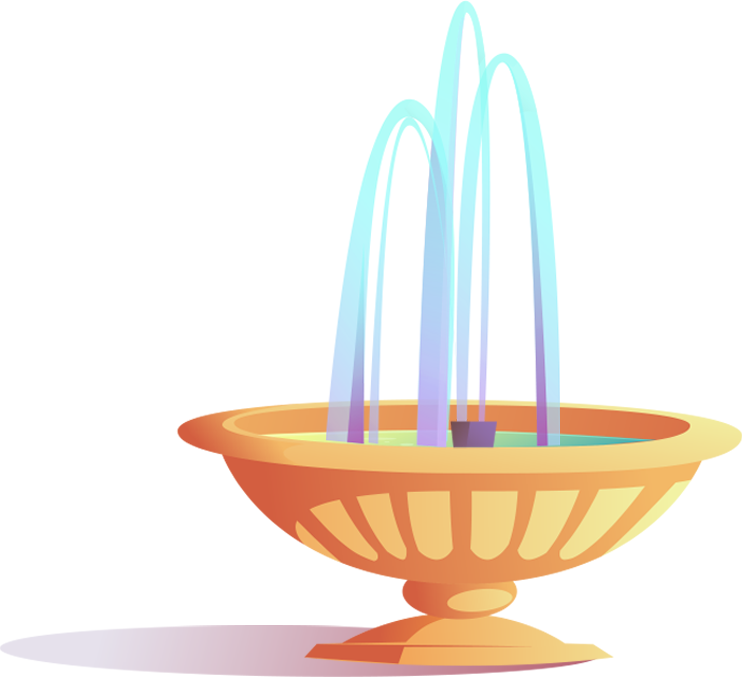
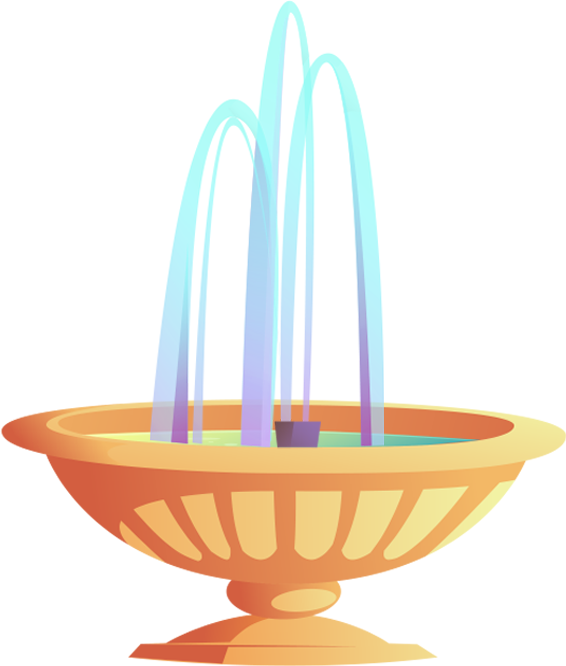
fix howz

diff --git a/src/containers/Rooms/Mashahir.js b/src/containers/Rooms/Mashahir.js
@@ -72,7 +72,7 @@ const Index = () => {
     {
       urlImage: process.env.PUBLIC_URL + '/Mashahir/Howz.png',
       id: 6,
-      x: 1370,
+      x: 1460,
       y: 470,
       isHover: false,
       onClick: () => goForward('/folan1'),
